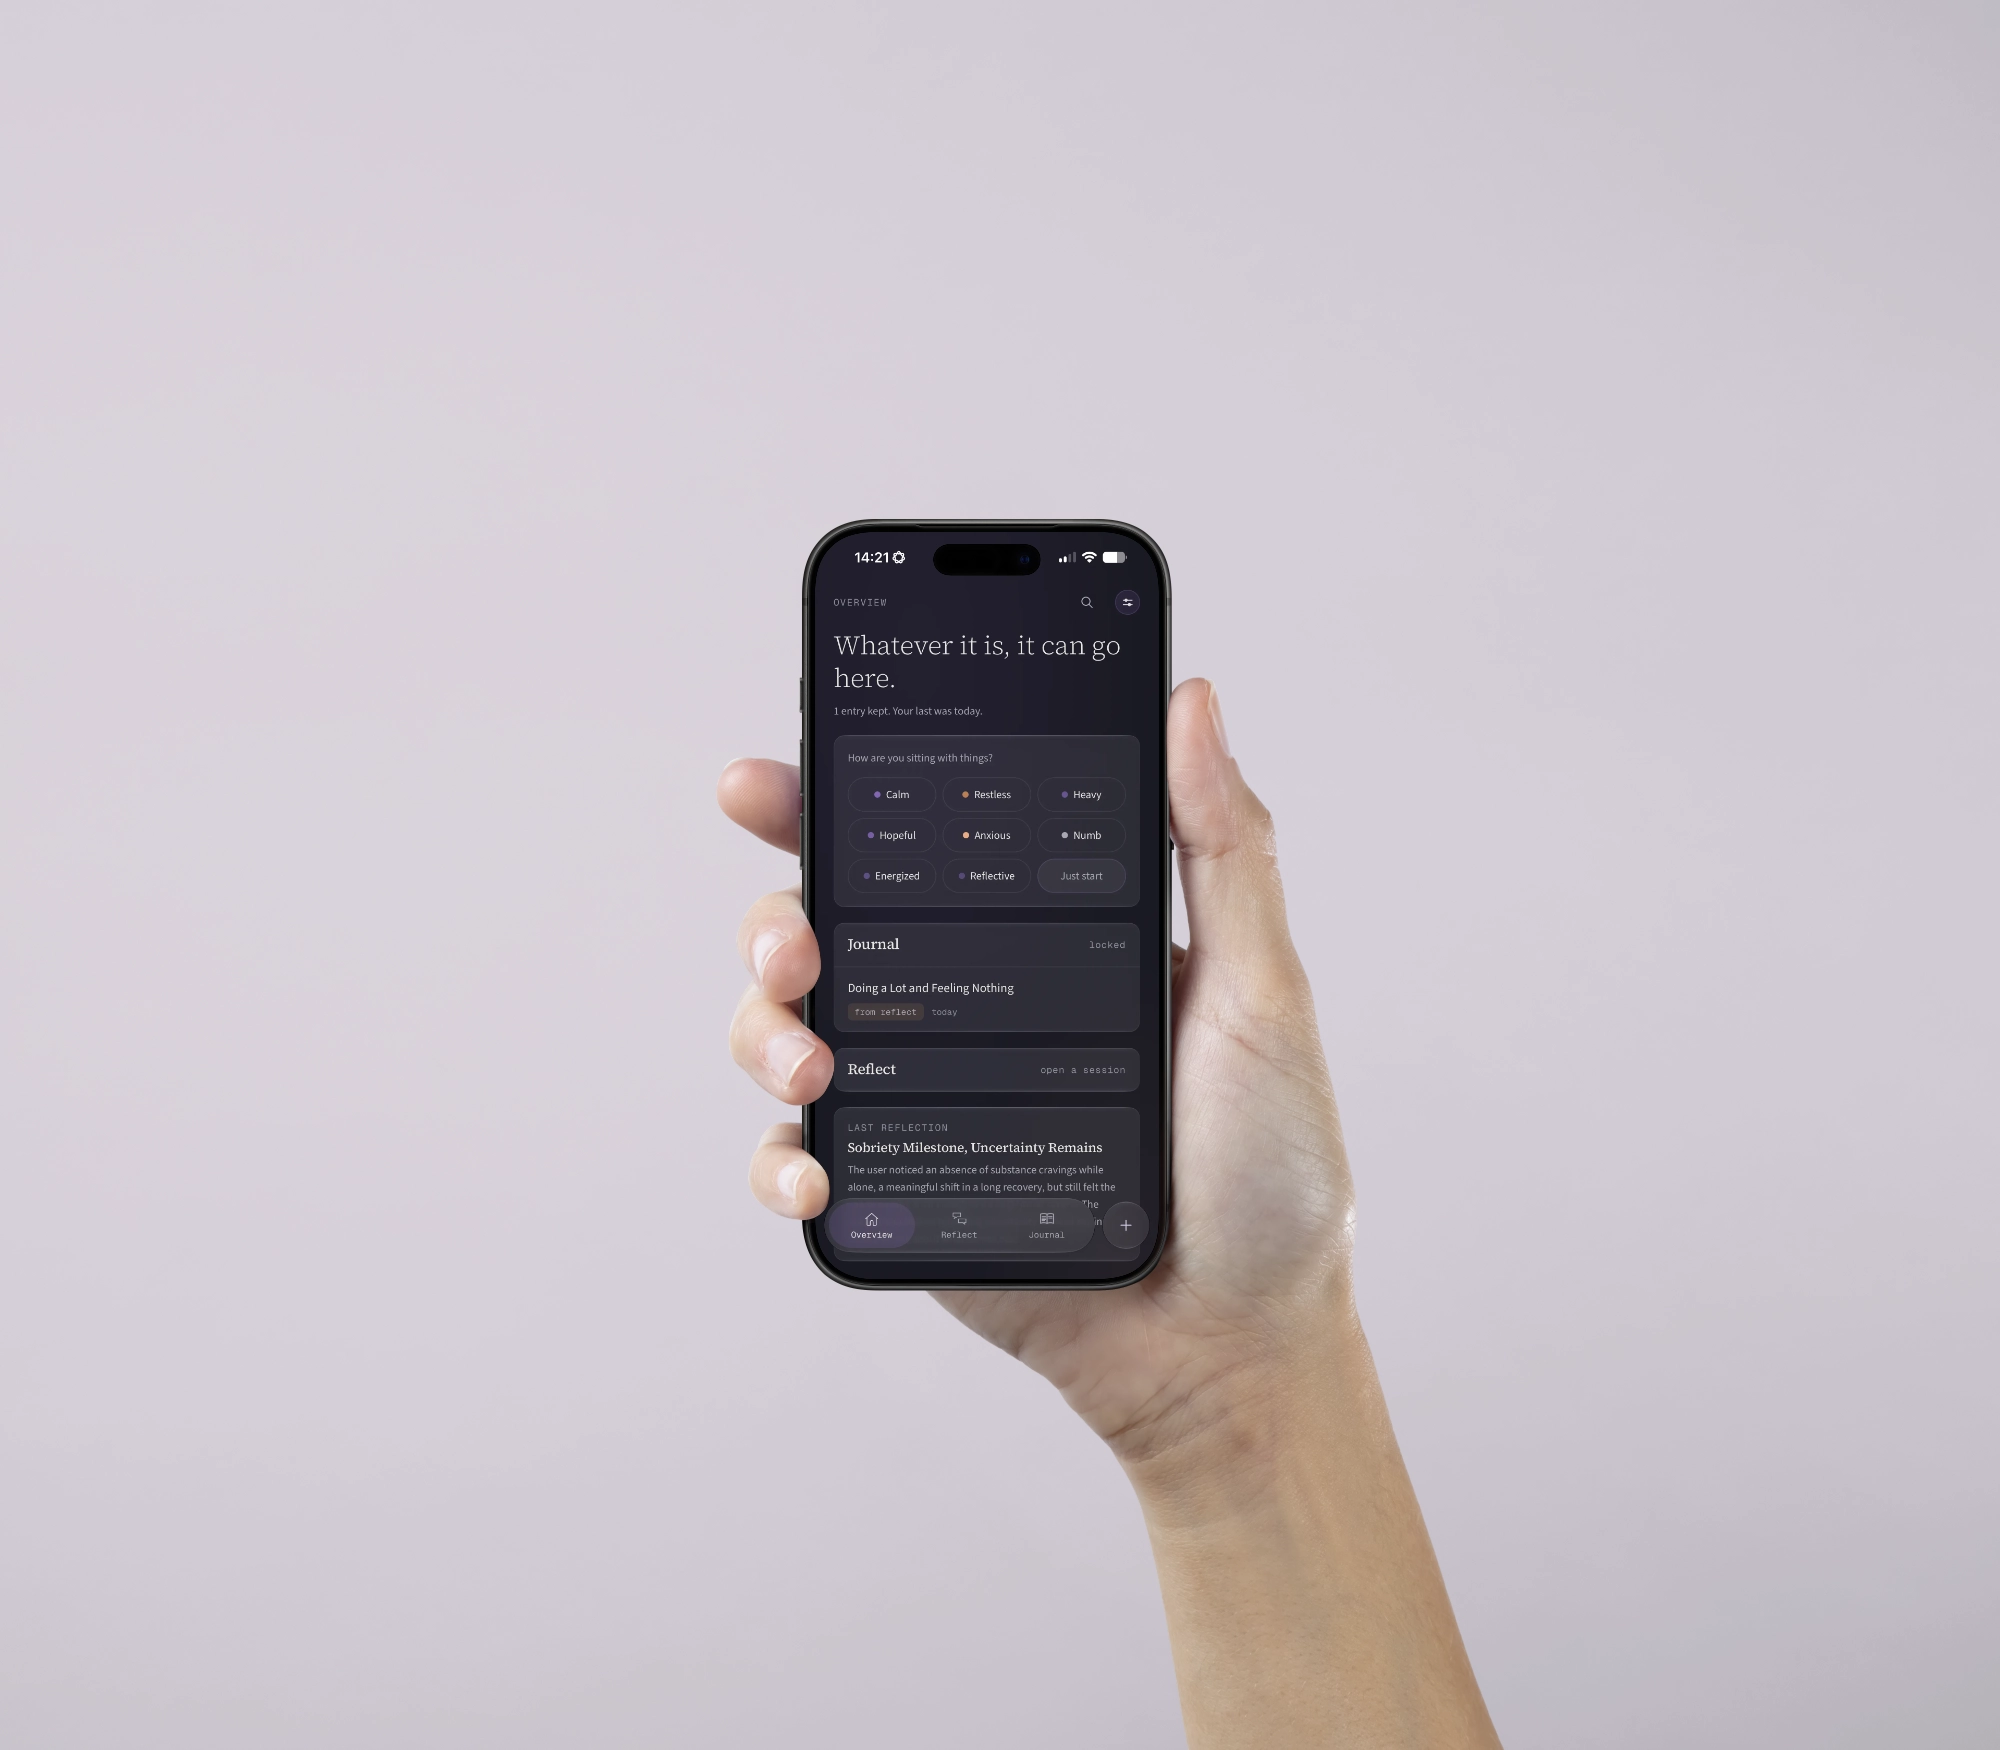
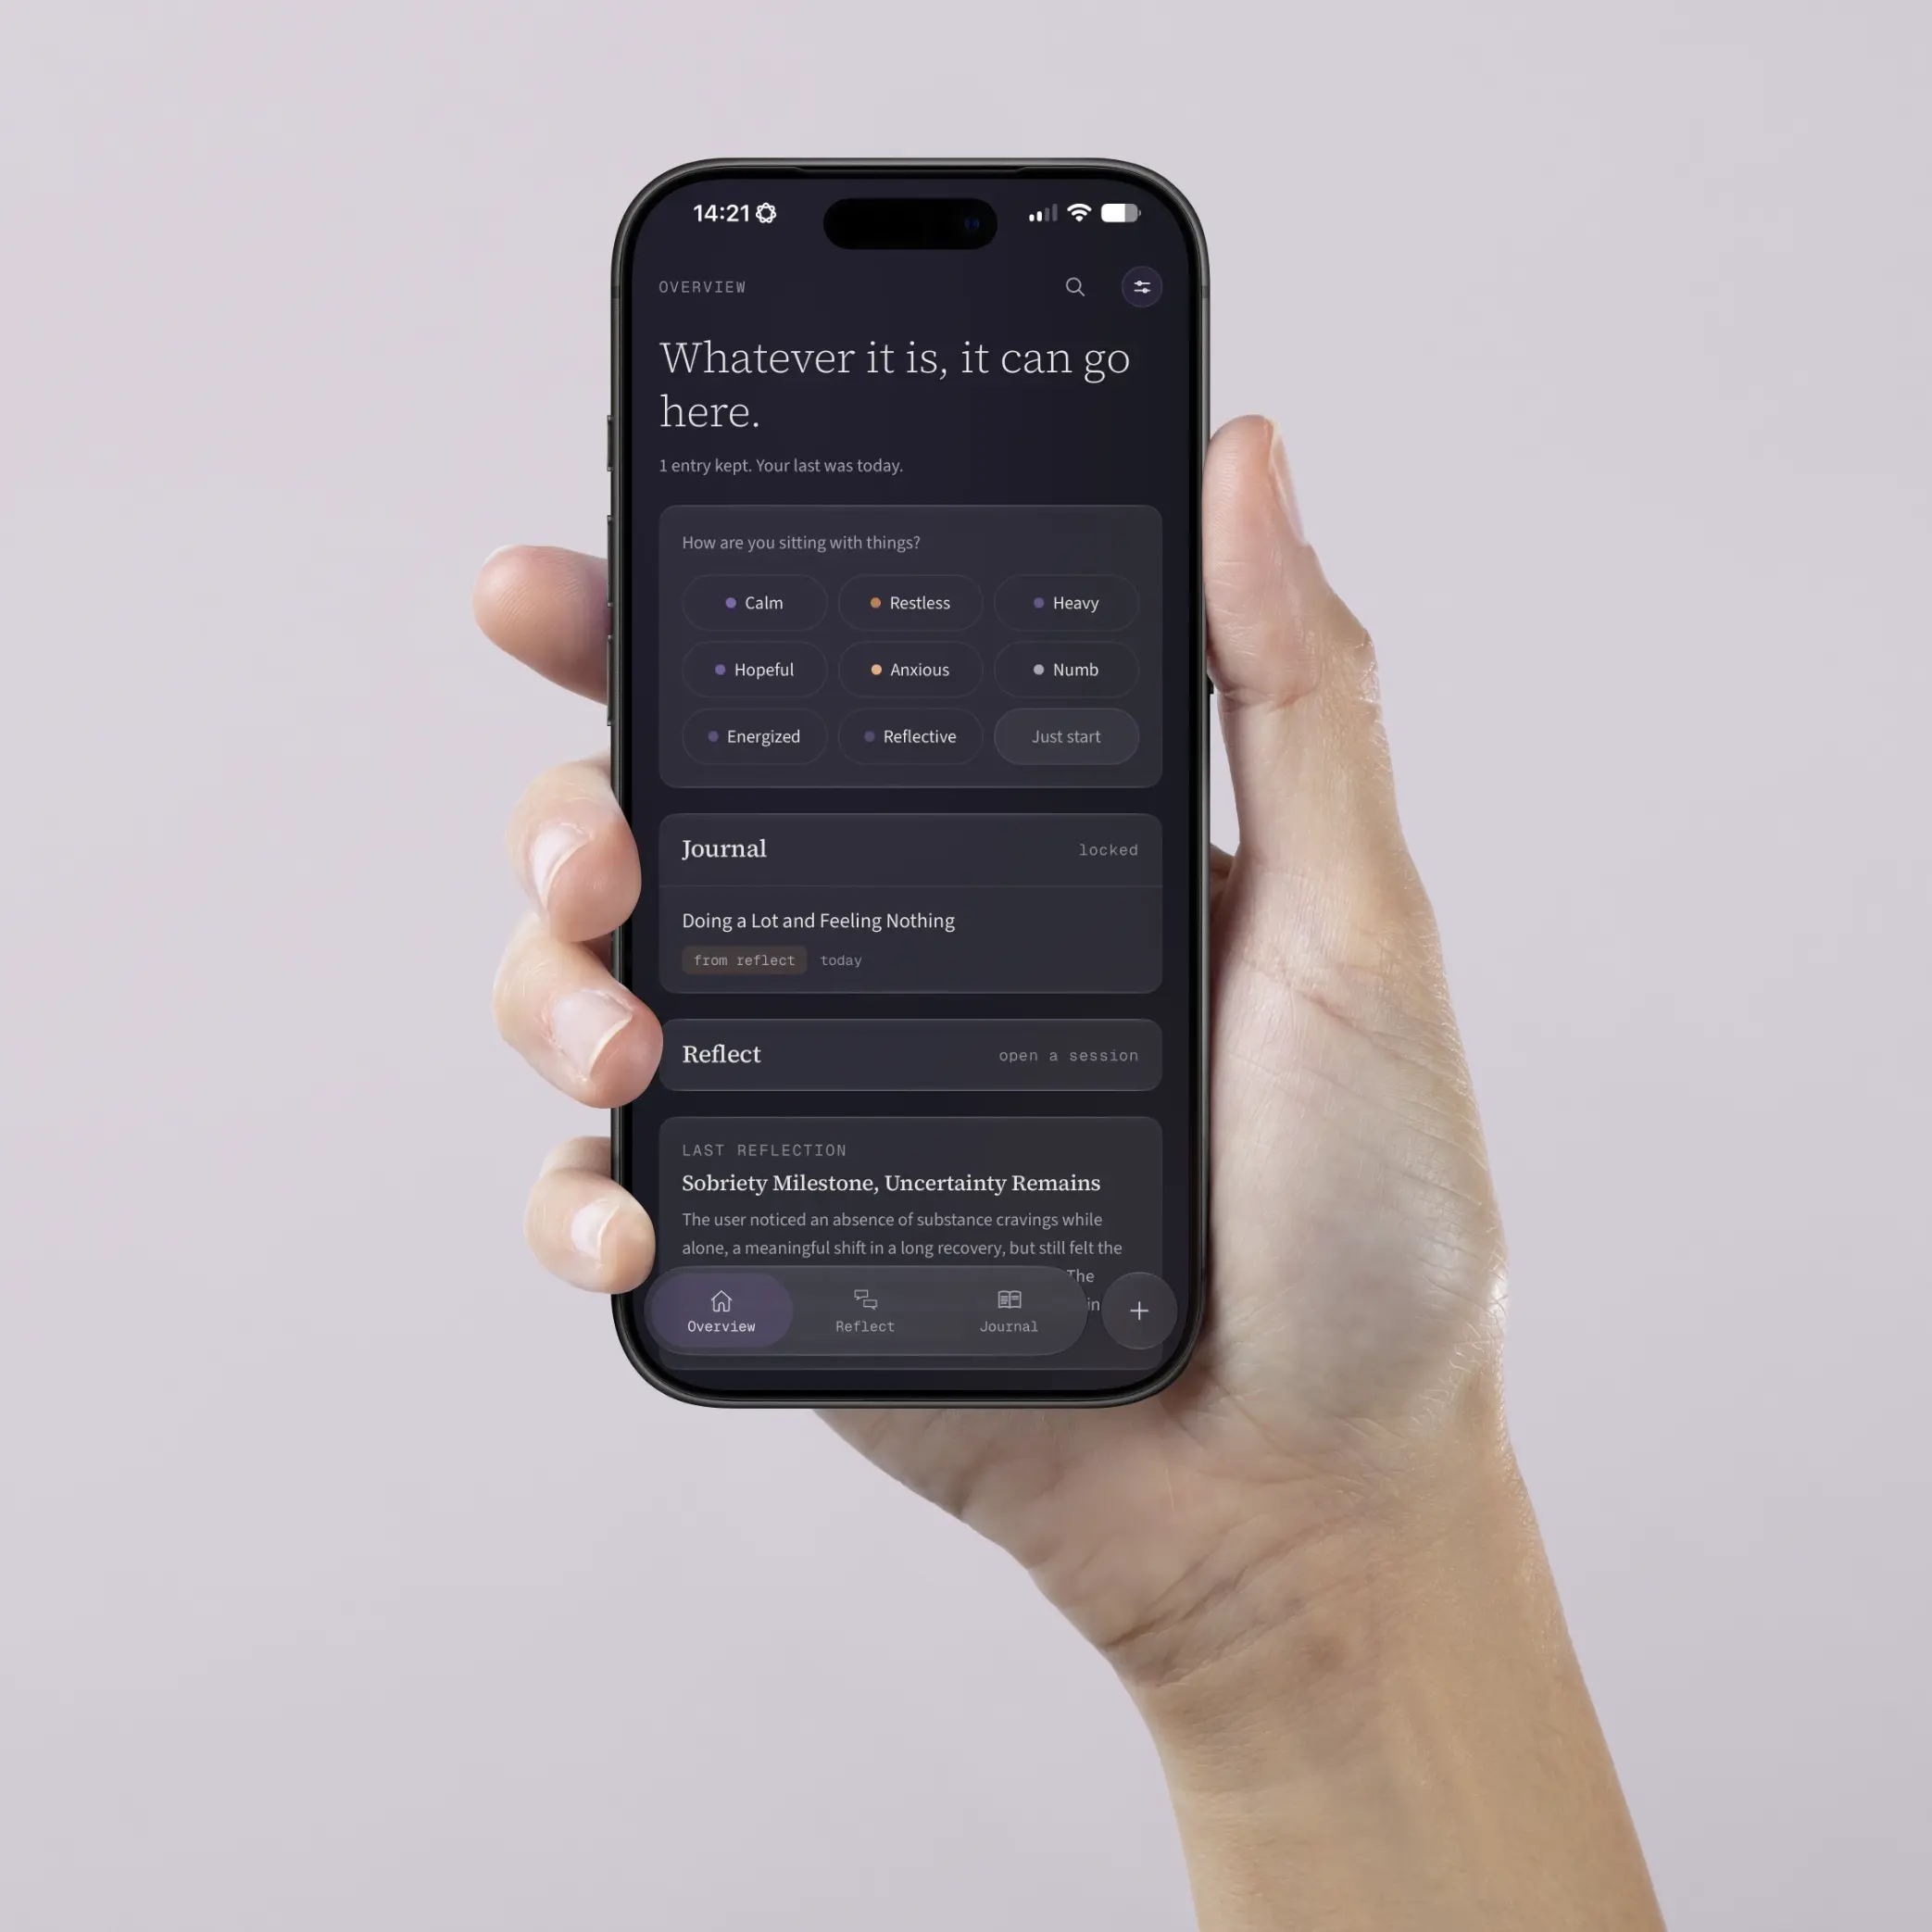
feat: update contact section with social media links and remove TODO comment

Changed region(s): [[0.248, 0.0617, 0.868, 1.0]]

diff --git a/web/src/components/Contact.tsx b/web/src/components/Contact.tsx
@@ -39,8 +39,6 @@ export function Contact({ about }: { about: About }) {
                 </a>
               </li>
             ) : null}
-            {/* TODO: copy needed. The email in .claude/rules/ABOUT.md is an unresolved
-                CONFIRM; the mailto renders once the email field is set in Sanity. */}
             {about.github ? (
               <li>
                 <a className={linkClass} href={about.github} rel="noreferrer">

diff --git a/.claude/rules/ABOUT.md b/.claude/rules/ABOUT.md
@@ -80,5 +80,5 @@ Institution paragraphs:
 
 ## Contact
 
-Email: CONFIRM: [email redacted] GitHub: github.com/FredrikHaugen LinkedIn: https://www.linkedin.com/in/fredrik-haugen
+Email: [email redacted] GitHub: github.com/FredrikHaugen LinkedIn: https://www.linkedin.com/in/fredrik-haugen
 Instagram: @mune.so Threads: @mune.so X: @mune_so